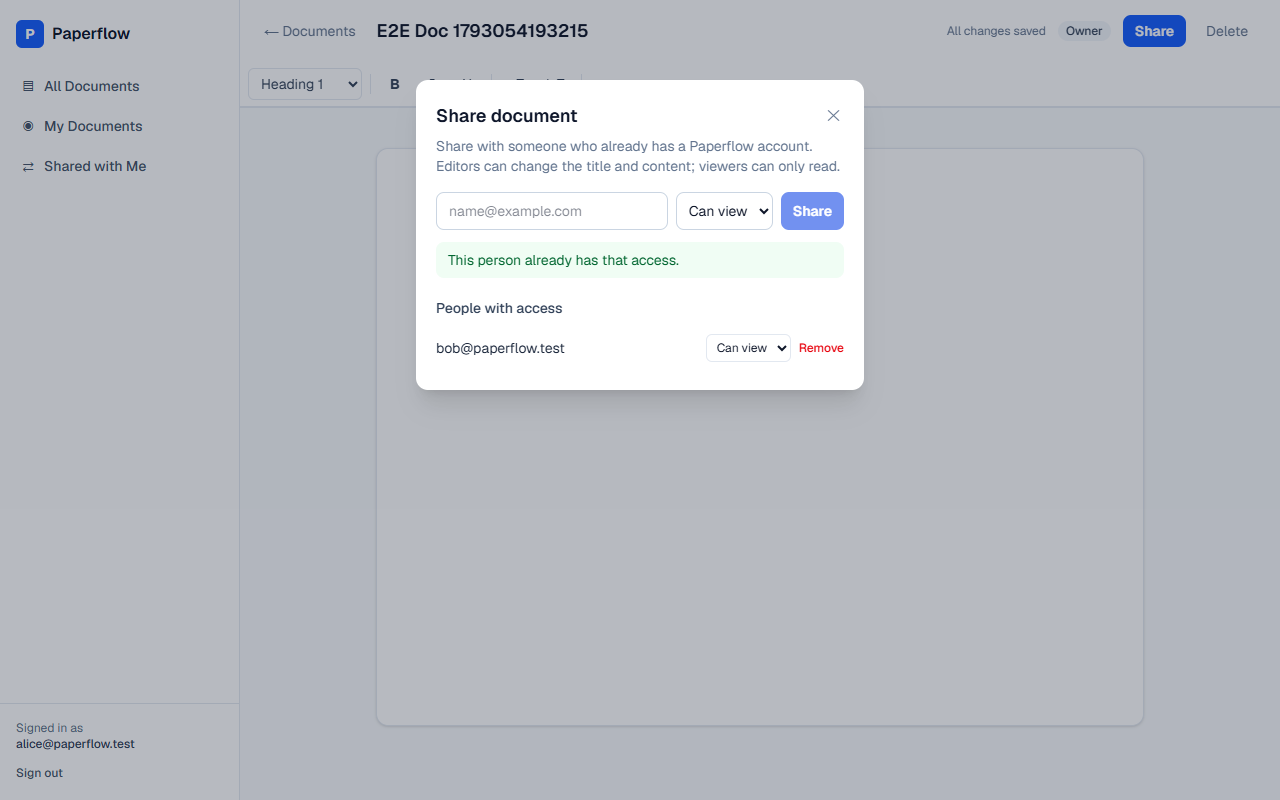
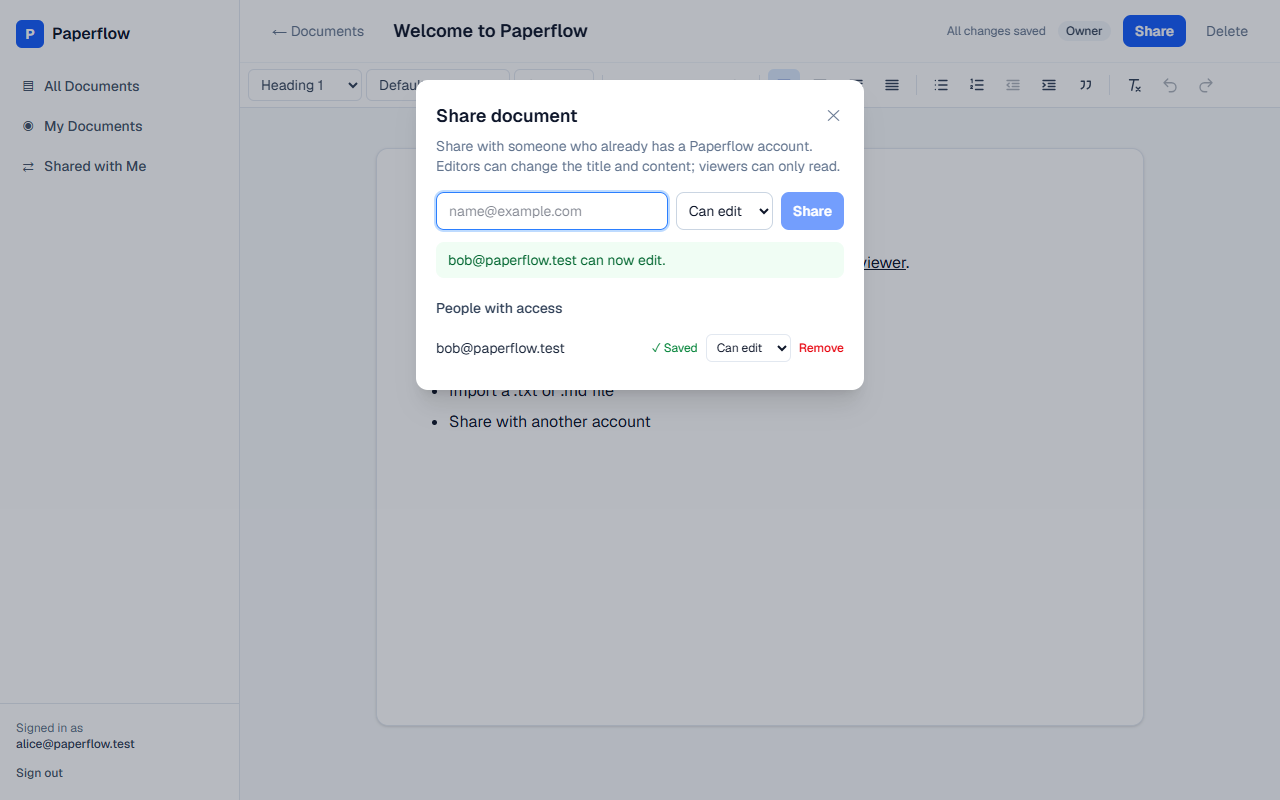
Final audit: correct docs, fix stale RLS profile test, refresh screenshots
- SUBMISSION.md finalised with verified results (41 unit, 7/7 RLS, 26/26 E2E)
- Docs no longer claim email confirmation is disabled (it is still enabled)
- Profile-visibility test asserts the real rule instead of a fixed set
- Replace deprecated __dirname in Vitest config/tests

diff --git a/tests/integration/rls.test.ts b/tests/integration/rls.test.ts
@@ -123,8 +123,22 @@ describe.skipIf(!configured)("RLS: document access is enforced by the database",
     expect(self.data).toBe("cannot_share_with_self");
   });
 
-  it("profiles are not enumerable by unrelated users", async () => {
-    const { data } = await bob.from("profiles").select("id, email");
-    expect((data ?? []).map((p) => p.id)).toEqual([bobId]);
+  it("profiles are visible only to yourself and people you share documents with", async () => {
+    // Expected set derived from Bob's own sharing relationships (other data in the
+    // project, e.g. a demo doc Alice shared with Bob, legitimately widens it).
+    const [{ data: visibleDocs }, { data: visibleShares }, { data: profiles }] = await Promise.all([
+      bob.from("documents").select("owner_id"),
+      bob.from("document_shares").select("shared_with_user_id"),
+      bob.from("profiles").select("id"),
+    ]);
+    const expected = new Set<string>([bobId]);
+    for (const d of visibleDocs ?? []) expected.add(d.owner_id);
+    for (const s of visibleShares ?? []) expected.add(s.shared_with_user_id);
+
+    const seen = new Set((profiles ?? []).map((p) => p.id));
+    expect(seen).toEqual(expected);
+    // Anonymous callers see no profiles at all.
+    const anonProfiles = await anon.from("profiles").select("id");
+    expect(anonProfiles.data ?? []).toEqual([]);
   });
 });

diff --git a/src/lib/editor/import.test.ts b/src/lib/editor/import.test.ts
@@ -47,7 +47,7 @@ describe("markdownToDoc", () => {
   it.each(["README.md", "SUBMISSION.md", "ARCHITECTURE.md", "AI_WORKFLOW.md"])(
     "imports this repo's %s into valid content (tables, relative links, code)",
     (file) => {
-      const doc = markdownToDoc(readFileSync(resolve(__dirname, "../../..", file), "utf8"));
+      const doc = markdownToDoc(readFileSync(resolve(import.meta.dirname, "../../..", file), "utf8"));
       expect(isDocEmpty(doc)).toBe(false);
       expect(validateDocumentContent(doc)).toMatchObject({ ok: true });
     },

diff --git a/SUBMISSION.md b/SUBMISSION.md
@@ -1,67 +1,79 @@
-# Submission: Paperflow
+# Paperflow: Submission
 
-## Links
+Ajaia Full Stack Product Engineer assessment: a lightweight collaborative document editor.
 
-- **Live app:** https://paperflow-five-psi.vercel.app
-- **Source:** https://github.com/izainpasha/paperflow
-- **Walkthrough video:** see [VIDEO_URL.txt](VIDEO_URL.txt)
+| | |
+|---|---|
+| **Google Drive folder** | **[PASTE YOUR GOOGLE DRIVE LINK HERE]** |
+| **Live application** | https://paperflow-five-psi.vercel.app |
+| **GitHub repository** | https://github.com/izainpasha/paperflow |
+| **Walkthrough video** | ⚠ **PENDING**: not yet recorded. See [VIDEO_URL.txt](VIDEO_URL.txt) |
 
-## Test accounts
+## Demo accounts
 
-These are demo-only accounts on reserved `.test` addresses. No real inboxes, no other data.
+Demo-only accounts on reserved `.test` addresses (no real inboxes). Both were verified by signing in on the live app.
 
 | Role in the demo | Email | Password |
 |---|---|---|
 | Owner | `alice@paperflow.test` | `Paperflow-Demo-2026` |
 | Recipient | `bob@paperflow.test` | `Paperflow-Demo-2026` |
 
-You can also create your own account on the sign-in page. Email confirmation is disabled, so you're signed in immediately.
+Alice owns **"Welcome to Paperflow"**, which is shared with Bob as a viewer.
 
-**Suggested 3-minute check:**
-1. Sign in as Alice → **+ New document** → type a title, use the toolbar (heading, bold, underline, lists) → wait for *All changes saved* → reload the page; formatting persists.
-2. **Import .txt / .md** on the dashboard with any Markdown file → a new formatted document opens.
-3. In a document, **Share** → `bob@paperflow.test` → *Can view* (try an unknown email to see the error).
-4. In a private window, sign in as Bob → **Shared with Me** → open the document (read-only banner, no toolbar). Paste the URL of one of Alice's *unshared* documents → *Document not available*.
-5. As Alice, switch Bob to *Can edit*; Bob can now edit and Alice sees the change after a reload.
+> **Self sign-up:** creating a new account works without an email step only when "Confirm email" is disabled in the Supabase project. *(Needs confirmation by the submitter: on 2026-10-27 it was still enabled.)* The demo accounts above work either way.
 
-## What's included
+**Suggested 3-minute check**
+1. Sign in as Alice → **+ New document** → set a title and format text (heading, font, size, bold/underline, lists, alignment, indent) → wait for *All changes saved* → reload; everything persists.
+2. Dashboard → **Import .txt / .md** with any Markdown file → a new formatted document opens.
+3. In a document → **Share** → `bob@paperflow.test` → *Can view* (an unknown email shows a clear error).
+4. Private window as Bob → **Shared with Me** → open it: read-only, no toolbar. Paste the URL of one of Alice's *unshared* documents → *Document not available*.
+5. As Alice, switch Bob to *Can edit* (the row shows *Saving…* → *✓ Saved*). Bob can now edit, and Alice sees the change after a reload.
 
-| Requirement | Status |
+## Implemented features
+
+| Requirement | Implementation |
 |---|---|
-| Create, rename, edit, save, reopen documents | ✅ Autosave with status, retry on failure, unsaved-changes warning |
-| Bold, italic, underline, headings (H1–H3), bulleted and numbered lists | ✅ Plus font family, font size, strikethrough, alignment, indent/outdent, quotes, clear formatting. Stored as Tiptap JSON; persists across reloads |
-| Import `.txt` and `.md` into a new editable document | ✅ Type, size (1 MB), and empty-content validation with clear errors. **No `.docx`.** |
-| Owner shares with another authenticated user by email | ✅ Viewer / editor permissions; change and revoke |
-| Owned vs. shared clearly distinguished | ✅ Sidebar views (All / My / Shared with Me) + badges + owner email |
-| Enforced on the server/database | ✅ Supabase RLS + column grants + `SECURITY DEFINER` share function; verified by live tests as a second user |
-| Supabase Auth + Postgres persistence | ✅ Email/password; no service-role key in the app |
-| Tests | ✅ 39 unit/component tests + 7 live RLS integration tests |
-| Docs | ✅ README, ARCHITECTURE, AI_WORKFLOW, this file, screenshots in `docs/screenshots/` |
-| Deployed | ✅ Vercel (production) |
+| Create, rename, edit, save, reopen | Autosave with visible status (*Unsaved changes* → *Saving…* → *All changes saved*), Retry on failure, unsaved-changes warning, `Ctrl/Cmd+S` |
+| Rich-text formatting | Headings H1–H3, font family, font size, bold, italic, underline, strikethrough, alignment, bulleted/numbered lists, indent/outdent, quotes, clear formatting, undo/redo. Stored as Tiptap JSON, so it persists across reloads |
+| File import | **`.txt` and `.md` only**, ≤ 1 MB, with clear errors for unsupported, empty, or oversized files. `.docx` is **not** supported |
+| Sharing | Owner shares by email with existing users as **viewer** or **editor**; can change or revoke access |
+| Owned vs. shared | Sidebar views *All / My Documents / Shared with Me*, access badges, owner email on shared docs |
+| Server-side enforcement | Supabase Row Level Security, column-level grants, and a `SECURITY DEFINER` share function. No service-role key in the app |
+| Auth and persistence | Supabase Auth (email + password) and PostgreSQL |
+| UX states | Empty, loading, error, and success states; responsive down to 390 px wide |
 
-## Verification performed
+## Verification (re-run 2026-10-27, final audit)
 
-- `npm run lint`, `npm run typecheck`, `npm test` (29 passing), `npm run build`: all clean (39 tests).
-- `npm run test:integration`: **7/7** live RLS tests passing against the production Supabase project.
-- Browser end-to-end run (25 checks) against the local production build: **25/25**.
-- Formatting check on production: imported this repo's `SUBMISSION.md` (relative links become text, absolute links stay); alignment, indent, font family, and size persist after reload.
-- The same E2E run against the deployed URL: **26/26** (adds a check that the recipient sees upgraded editor access).
+| Check | Result |
+|---|---|
+| `npm run lint` | ✅ 0 problems |
+| `npm run typecheck` (TypeScript strict) | ✅ 0 errors |
+| `npm test`: unit + component tests | ✅ **41 passed** in 7 files (validation 13, import 11, formatting 4, toolbar 4, import button 4, autosave 3, share dialog 2) |
+| `npm run test:integration`: live RLS tests against the production Supabase project, signed in as two real users with only the public key | ✅ **7/7 passed** |
+| `npm run build` | ✅ passes |
+| Browser end-to-end run against the **deployed** app (sign-in, create, format, reload persistence, import, share, viewer read-only, unshared-doc denial, editor upgrade, 390 px layout) | ✅ **26/26 checks** |
+| Database audit | ✅ RLS on all tables; anonymous role has no table access or function execute; signed-in users cannot change `owner_id`, retarget shares, or insert shares directly |
+| Secrets audit | ✅ No `.env` files or keys in git history; Vercel holds only the two public `NEXT_PUBLIC_SUPABASE_*` variables |
+
+*Test count history:* earlier drafts of these docs said 29, then 39. Those were accurate when written; tests were added for the formatting toolbar, the import fix, and share-dialog feedback. **41** is the current verified count.
+
+The browser E2E script was run manually (playwright-core with Edge) and is not committed as a CI test.
 
 ## Known limitations
 
-- **No real-time collaboration.** Saves are last-write-wins; two people editing the same document at once can overwrite each other. Editors see others' changes after a reload.
-- **Sharing only works with existing accounts.** No invitation emails. The "no account uses that email" message reveals whether an email is registered to any signed-in user (accepted trade-off; would add rate limiting).
-- **Search covers titles only**, not content.
-- **Import is client-side conversion** of `.txt`/`.md` only. Markdown images and raw HTML are intentionally dropped.
-- **No ownership transfer, folders, version history, or comments.**
-- **Supabase free tier**: the project pauses after a week of inactivity, and the built-in mailer is rate-limited. Email confirmation is off for this demo.
-- **The browser E2E script is not committed** as a CI test. It was run manually with `playwright-core` + Edge; the committed automated tests are Vitest.
+- **No real-time co-editing.** Saves are last-write-wins; simultaneous editors can overwrite each other, and others' changes appear after a reload.
+- **Sharing only with existing accounts.** No invitation emails. The "no account uses that email" message reveals whether an email is registered (accepted trade-off).
+- **Search covers titles only**, not document content.
+- **Import:** client-side conversion of `.txt`/`.md` only. Markdown images, raw HTML, and relative links are dropped or turned into plain text.
+- **Not included:** ownership transfer, folders, version history, comments.
+- **Supabase free tier:** the project pauses after about a week of inactivity, and the built-in mailer only delivers to project team members (relevant only if "Confirm email" is enabled).
 
 ## Next steps (another 2–4 hours)
 
-1. Real-time co-editing with Yjs + Tiptap Collaboration over Supabase Realtime, plus presence avatars. This would replace last-write-wins.
+1. Real-time collaboration (Yjs + Tiptap Collaboration over Supabase Realtime) with presence.
 2. An optimistic-concurrency check on save (`updated_at` precondition) as an interim conflict guard.
-3. Commit the Playwright E2E suite and run it plus the RLS suite in GitHub Actions against a Supabase branch database.
-4. Invitations for non-users (pending shares that resolve on sign-up), plus rate limiting on share lookups.
-5. Full-text search over content (generated `tsvector` + GIN index), and `.docx` import via `mammoth` with the same allow-list sanitisation.
-6. Version history (snapshot table) and ownership transfer.
+3. Commit the browser E2E suite and run it plus the RLS suite in CI against a Supabase branch database.
+4. Invitations for non-users, plus rate limiting on share lookups.
+5. Full-text content search; `.docx` import with the same sanitisation.
+
+See [README.md](README.md), [ARCHITECTURE.md](ARCHITECTURE.md), and [AI_WORKFLOW.md](AI_WORKFLOW.md) for details.

diff --git a/AI_WORKFLOW.md b/AI_WORKFLOW.md
@@ -29,7 +29,9 @@ The project uses very recent majors (Next.js 16.4, React 19.3, Tiptap 3.32, @sup
 5. **Import rejected real-world Markdown (found by me during manual testing).** Importing `SUBMISSION.md` failed with "links must use http, https or mailto": the editor accepted relative links like `[VIDEO_URL.txt](VIDEO_URL.txt)`, but the server allow-list (correctly) did not. Fix: the editor's link rule now uses the same `SAFE_HREF` regex as the server, so relative links import as plain text. A client-side `normalizeContent()` strips any other unsupported values (e.g. a pasted "Comic Sans" font) before saving instead of blocking autosave. A regression test imports every Markdown file in this repo.
 6. **Toolbar scope expanded after my review.** The first toolbar covered only the spec's minimum. I asked for font selection, indentation, and more. The agent added Tiptap's official text-style/text-align extensions plus a small custom paragraph-indent extension (Tiptap only ships list nesting), with every style value allow-listed on the server so formatting can't be used to inject CSS.
 7. **A deploy failed on a test-file type error** that `vitest` didn't catch (Vitest doesn't type-check; `next build` does). The failed Vercel build left the previous version serving; it was fixed and redeployed, and `npm run check` includes `typecheck` for this reason.
-8. **Infrastructure fixes.** The direct Postgres host is IPv6-only and unreachable from the dev network, so the migration was applied through Supabase's IPv4 session pooler. The pasted connection string also still had the template's `[ ]` around the password.
+8. **A live RLS test went stale (found in the final audit).** "Profiles are not enumerable" asserted that Bob could see only himself. After a demo document was shared from Alice to Bob, Bob legitimately sees Alice's email, so the test failed. A database check confirmed nothing was leaking. The test now asserts the actual rule (you see yourself plus the people you share with), derived from live data.
+9. **A wrong documentation claim (found in the final audit).** The docs said email confirmation was disabled; querying the Supabase auth settings showed it was still enabled. The docs were corrected to state the requirement instead of asserting it.
+10. **Infrastructure fixes.** The direct Postgres host is IPv6-only and unreachable from the dev network, so the migration was applied through Supabase's IPv4 session pooler. The pasted connection string also still had the template's `[ ]` around the password.
 
 ## How correctness and UX were verified
 
@@ -37,7 +39,7 @@ The project uses very recent majors (Next.js 16.4, React 19.3, Tiptap 3.32, @sup
 |---|---|
 | `npm run lint` | clean |
 | `npm run typecheck` (strict) | clean |
-| `npm test` | 39 unit/component tests passing |
+| `npm test` | 41 unit/component tests passing (earlier revisions of this file said 29, then 39; tests were added as features were added) |
 | `npm run test:integration` (live Supabase, two real users, public key only) | 7/7 passing |
 | `npm run build` | passing |
 | Browser E2E (Edge via playwright-core, script kept outside the repo) against the local production build | 25/25 checks |

diff --git a/README.md b/README.md
@@ -3,7 +3,7 @@
 A lightweight collaborative document editor: create, format, import, and share documents, with access enforced by PostgreSQL Row Level Security.
 
 **Live app:** https://paperflow-five-psi.vercel.app
-**Demo accounts:** `alice@paperflow.test` / `bob@paperflow.test`, password `Paperflow-Demo-2026` (or create your own account; no email confirmation is needed).
+**Demo accounts:** `alice@paperflow.test` / `bob@paperflow.test`, password `Paperflow-Demo-2026`. You can also create your own account; this skips the email step only when "Confirm email" is disabled in Supabase (see setup step 2).
 
 ![Editor](docs/screenshots/02-editor.png)
 
@@ -57,12 +57,16 @@ Sign in as `alice@…` in one browser and `bob@…` in a private window (or crea
 
 ## Tests
 
+Current verified totals: **41 unit/component tests** (`npm test`) and **7 live RLS integration tests** (`npm run test:integration`).
+
+
 - `src/lib/validation.test.ts`: title/email rules, Tiptap content allow-list (rejects `script` nodes, `javascript:` links, oversized or deeply nested docs), import file validation.
 - `src/lib/editor/import.test.ts`: `.txt` paragraphs and line breaks, Markdown → headings/marks/lists, XSS payloads stripped, output serialisable for Server Actions.
 - `src/components/editor/use-autosave.test.ts`: debounce and patch merging, retry after failure, edits made during an in-flight save.
 - `src/components/editor/toolbar.test.tsx`: toolbar applies bold/underline/headings/lists/font/size/alignment/indent to a real Tiptap editor; formatting round-trips through JSON.
 - `src/lib/editor/formatting.test.ts`: style values outside the allow-list (CSS injection via font names, unknown sizes, colours) are rejected by the server and normalised away on the client.
 - `src/components/import-button.test.tsx`: UI rejects unsupported and empty files; imports Markdown and navigates to the new document.
+- `src/components/editor/share-panel.test.tsx`: changing a permission shows *Saving…* → *✓ Saved*, locks the row while saving, and rolls back with an error on failure.
 - `tests/integration/rls.test.ts`: against the real database, with only the public key: strangers can't read, update, delete, or share by ID; viewer vs. editor rights; owner can't be changed; revocation; unknown-user and self-share handling; profiles aren't enumerable.
 
 A browser end-to-end run (sign in, create, format, reload, import, share, recipient access, private-doc denial, mobile layout) was also performed against the deployed app; see [AI_WORKFLOW.md](AI_WORKFLOW.md).

diff --git a/ARCHITECTURE.md b/ARCHITECTURE.md
@@ -67,7 +67,7 @@ Additional hardening:
 - **Sharing is limited to existing accounts.** No invitation emails. The trade-off is that the "No Paperflow account uses that email" message lets an authenticated user learn whether an email is registered. That was accepted for usability; rate limiting would be the next mitigation.
 - **`cacheComponents` disabled.** The scaffold enabled it, but every route is per-user and cookie-authenticated, so there is no shared static shell to cache, and caching would add a cross-user staleness risk.
 - **Search covers titles only** (`ILIKE` with escaped wildcards). Full-text search over content would need a generated `tsvector` column.
-- **Email + password auth.** It's the simplest flow that works for two-account testing. Email confirmation is disabled in the Supabase project so reviewers can sign up instantly (Supabase's default mailer only delivers to team members).
+- **Email + password auth.** It's the simplest flow that works for two-account testing. For frictionless reviewer sign-up, "Confirm email" should be disabled in the Supabase project, because Supabase's default mailer only delivers to project team members. When it is enabled, sign-up uses the PKCE email-confirmation flow handled by `/auth/callback`.
 
 ## Scope cuts
 
